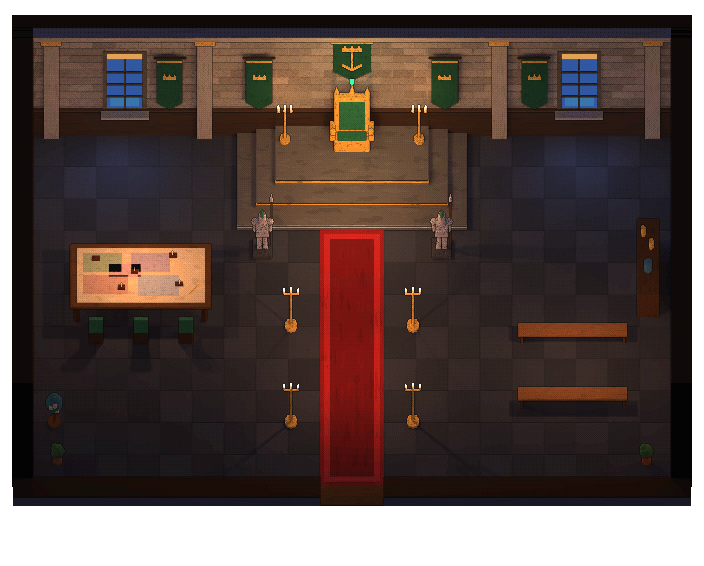
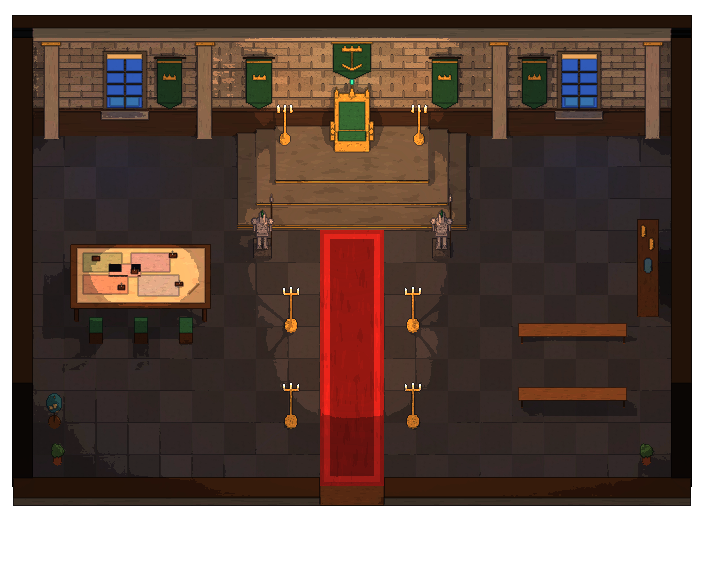
The palace's throne room re-rendered in the toy finish: its candle stands stay gold and lit, and its floor lies in one even, warm band (a lifted ambient, softer lamps and moonlight) instead of breaking into dark shapes
Claude-Session: https://claude.ai/code/session_018nrKRFmqoRAiZo7miU6eXz

diff --git a/tools/bridge-art/scenes/lumar_crown_palace.py b/tools/bridge-art/scenes/lumar_crown_palace.py
@@ -58,7 +58,7 @@ def tall_window(x, w=1.1, z0=1.25, z1=3.4):
         k.box(x - w / 2, 2.06, z0 + (z1 - z0) * i / 4 - 0.02, x + w / 2, 2.09, z0 + (z1 - z0) * i / 4 + 0.02, ('#4a4438', 0.12), 'window_bar')
     k.box(x - 0.025, 2.06, z0, x + 0.025, 2.09, z1, ('#4a4438', 0.12), 'window_bar')
     k.box(x - w / 2 - 0.2, 2.0, z0 - 0.2, x + w / 2 + 0.2, 2.3, z0 - 0.1, (shade(STONE, 1.1), 0.1), 'sill')
-    k.area_light(x, 2.6, 2.0, '#8098d0', 30, 1.0, rot=(math.radians(-65), 0, 0))
+    k.area_light(x, 2.6, 2.0, '#8098d0', 12, 1.0, rot=(math.radians(-65), 0, 0))
 
 
 for x in (3.9, 18.1):
@@ -111,11 +111,11 @@ for dx in (-0.22, 0.0, 0.22):
 k.point_light(CX, 3.4, 3.6, '#ffe0a0', 40, radius=0.4)
 k.point_light(CX, 4.6, 2.2, '#ffd8a0', 45, radius=0.4)                 # lamplight on the throne
 for x in (8.9, 13.1):                                   # candle stands on the dais
-    k.cyl(x, 2.5, 0.45, 0.55, 0.16, (GOLD, 0.25), 'stand_foot', verts=10)
-    k.cyl(x, 2.5, 0.55, 1.75, 0.035, (GOLD, 0.25), 'stand_shaft', verts=8)
+    k.cyl(x, 2.5, 0.45, 0.55, 0.16, (GOLD, 0.25), 'stand_foot_lustre', verts=10)
+    k.cyl(x, 2.5, 0.55, 1.75, 0.035, (GOLD, 0.25), 'stand_shaft_lustre', verts=8)
     for dx in (-0.2, 0.0, 0.2):
-        k.cyl(x + dx, 2.5, 1.72, 1.76, 0.05, (GOLD, 0.25), 'stand_cup', verts=8)
-        A.candle(k, x + dx, 2.5, 1.76, energy=2.5)
+        k.cyl(x + dx, 2.5, 1.72, 1.76, 0.05, (GOLD, 0.25), 'stand_cup_lustre', verts=8)
+        A.candle(k, x + dx, 2.5, 1.76, energy=2.5, lustre=True)
 k.solid(7.4, 2.0, 14.6, 5.0)                            # the dais: you stand at its foot, on the carpet
 
 # ---- the long carpet down the hall --------------------------------------------------------------------------------
@@ -172,17 +172,19 @@ for (x, r) in ((1.8, 12.2), (20.2, 12.2)):
     A.potted_plant(k, x, r)
 for r in (8.0, 11.0):                                   # standing candelabra down the carpet
     for x in (9.1, 12.9):
-        k.cyl(x, r, 0.0, 0.08, 0.2, (GOLD, 0.25), 'cand_foot', verts=10)
-        k.cyl(x, r, 0.08, 1.5, 0.035, (GOLD, 0.25), 'cand_shaft', verts=8)
-        k.tube((x - 0.22, r, 1.42), (x + 0.22, r, 1.42), 0.025, (GOLD, 0.25), 'cand_arm', verts=6)
+        k.cyl(x, r, 0.0, 0.08, 0.2, (GOLD, 0.25), 'cand_foot_lustre', verts=10)
+        k.cyl(x, r, 0.08, 1.5, 0.035, (GOLD, 0.25), 'cand_shaft_lustre', verts=8)
+        k.tube((x - 0.22, r, 1.42), (x + 0.22, r, 1.42), 0.025, (GOLD, 0.25), 'cand_arm_lustre', verts=6)
         for dx in (-0.22, 0.0, 0.22):
-            A.candle(k, x + dx, r, 1.45 if dx else 1.5, energy=1.8)
+            A.candle(k, x + dx, r, 1.45 if dx else 1.5, energy=1.8, lustre=True)
         k.solid(x - 0.25, r - 0.25, x + 0.25, r + 0.25)
 
 # ---- light: chandeliers down the hall ----------------------------------------------------------------------------
-for (x, r, e) in ((CX, 5.5, 160), (CX, 9.5, 140), (4.4, 7.0, 110), (17.8, 9.4, 100)):
+for (x, r, e) in ((CX, 5.5, 128), (CX, 9.5, 112), (4.4, 7.0, 66), (17.8, 9.4, 60)):
     A.hanging_lamp(k, x, r, z=2.8, energy=e, visible=False)
-k.render(OUT, light_states={'full': {'flicker': 1.0}, 'dim': {'flicker': 0.82}}, light_samples=128, world_light=('#3a4060', 0.5))
+k.render(OUT, light_states={'full': {'flicker': 1.0}, 'dim': {'flicker': 0.82}}, light_samples=128, world_light=('#5a4a40', 1.45))
+# (the lamps a little softer and the room's ambient lifted, so the floor lies in one even band of the toy finish: the
+# pools under the lamps used to break it into hard-edged dark shapes)
 
 w = json.load(open(WORLD)) if os.path.exists(WORLD) else {}
 w.update({'name': 'The Palace of the Emerald Crown', 'width': COLS, 'height': ROWS, 'tileSize': 16, 'tileset': 'lumar',
